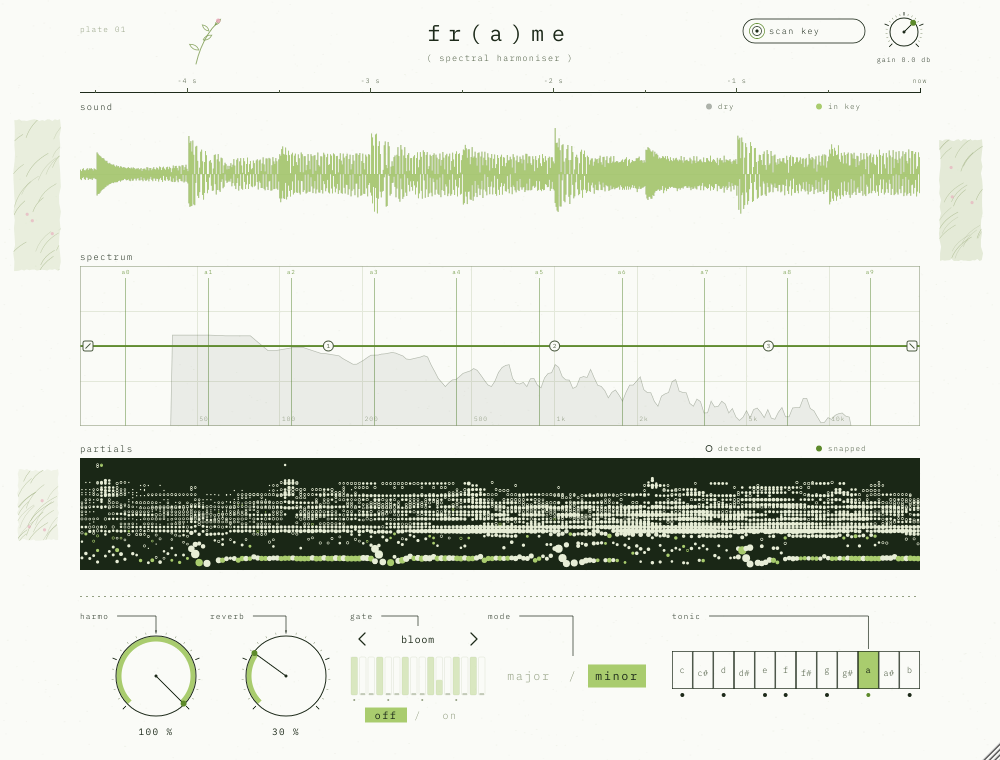
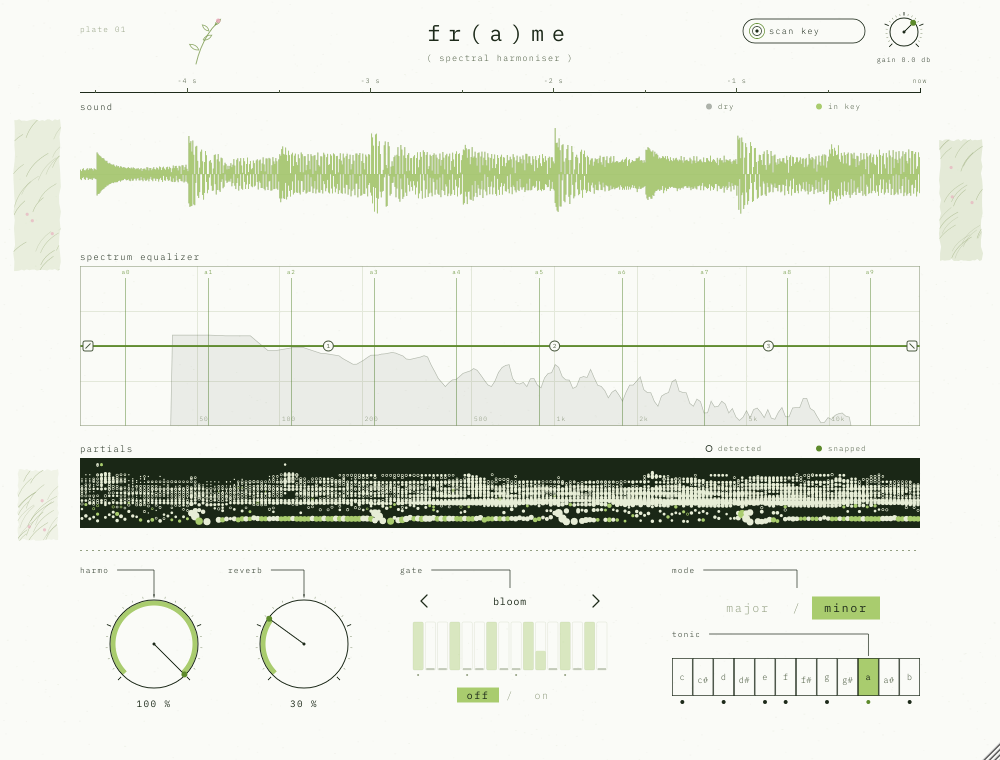
3.4.0 : contrôles réorganisés et aérés (partials plus basse), spectrum equalizer
Claude-Session: https://claude.ai/code/session_01BthVUY6Bak1JTWBvTbc3au

diff --git a/Source/PluginEditor.cpp b/Source/PluginEditor.cpp
@@ -146,7 +146,7 @@ void FrameCanvas::paint (juce::Graphics& g)
         drawMonoText (g, text, { band.getX(), band.getY() - 16.0f, 300.0f, 13.0f }, 11.5f, J::centredLeft, Palette::ink);
     };
     bandLabel ("sound",    soundArea);
-    bandLabel ("spectrum", spectrumArea);
+    bandLabel ("spectrum equalizer", spectrumArea);
     bandLabel ("partials", partialArea);
 
     // Petites légendes à droite des étiquettes (pastille + mot).
@@ -166,15 +166,15 @@ void FrameCanvas::paint (juce::Graphics& g)
     // ---- Zone des contrôles ---------------------------------------------------
     g.setColour (Palette::pencil);
     for (float x = left; x < right; x += 6.0f)                 // ligne pointillée de séparation
-        g.drawHorizontalLine (596, x, juce::jmin (x + 2.0f, right));
+        g.drawHorizontalLine ((int) separatorY, x, juce::jmin (x + 2.0f, right));
 
     const auto knobC = knobArea.toFloat().getCentre();
     const auto reverbC = reverbArea.toFloat().getCentre();
-    drawCallout (g, "harmo",  { left, 616.0f },   { knobC.x,   (float) knobArea.getY() + 2.0f }, true);
-    drawCallout (g, "reverb", { 210.0f, 616.0f }, { reverbC.x, (float) reverbArea.getY() + 2.0f }, true);
-    drawCallout (g, "gate",   { 350.0f, 616.0f }, { (float) gateArea.getCentreX(), (float) gateArea.getY() - 2.0f }, true);
-    drawCallout (g, "mode",   { 488.0f, 616.0f }, { (float) modeArea.getCentreX(), (float) modeArea.getY() - 2.0f }, true);
-    drawCallout (g, "tonic",  { 672.0f, 616.0f },
+    drawCallout (g, "harmo",  { left, calloutY },   { knobC.x,   (float) knobArea.getY() + 2.0f }, true);
+    drawCallout (g, "reverb", { 228.0f, calloutY }, { reverbC.x, (float) reverbArea.getY() + 2.0f }, true);
+    drawCallout (g, "gate",   { 400.0f, calloutY }, { (float) gateArea.getCentreX(), (float) gateArea.getY() - 2.0f }, true);
+    drawCallout (g, "mode",   { 672.0f, calloutY }, { (float) modeArea.getCentreX(), (float) modeArea.getY() - 2.0f }, true);
+    drawCallout (g, "tonic",  { 672.0f, (float) modeArea.getBottom() + 8.0f },
                  { (float) noteArea.getX() + noteArea.getWidth() * ((float) noteRow.getNote() + 0.5f) / 12.0f,
                    (float) noteArea.getY() - 2.0f }, true);
 

diff --git a/Source/PluginEditor.h b/Source/PluginEditor.h
@@ -62,16 +62,18 @@ private:
     // par-dessus), le spectrum (EQ) et la partition des partiels.
     const juce::Rectangle<float> soundArea    { 80.0f, 116.0f, 840.0f, 116.0f };
     const juce::Rectangle<float> spectrumArea { 80.0f, 266.0f, 840.0f, 160.0f };
-    const juce::Rectangle<float> partialArea  { 80.0f, 458.0f, 840.0f, 112.0f };
+    const juce::Rectangle<float> partialArea  { 80.0f, 458.0f, 840.0f,  70.0f };   // 3.4 : plus basse, les contrôles montent
     // En haut à droite : scan key, puis le petit bouton gain.
     const juce::Rectangle<int>   scanArea     { 742, 18, 124, 26 };
     const juce::Rectangle<int>   gainArea     { 884, 12, 40, 40 };
-    // Rangée du bas : deux gros boutons (harmo, reverb), gate, mode, tonique.
-    const juce::Rectangle<int>   knobArea     { 110, 630, 92, 92 };
-    const juce::Rectangle<int>   reverbArea   { 240, 630, 92, 92 };
-    const juce::Rectangle<int>   gateArea     { 350, 628, 136, 100 };
-    const juce::Rectangle<int>   modeArea     { 498, 658, 150, 36 };
-    const juce::Rectangle<int>   noteArea     { 672, 651, 248, 50 };
+    // Contrôles (3.4) : trois groupes aérés — son (harmo, reverb), gate, tonalité
+    // (mode au-dessus de la tonique).
+    static constexpr float separatorY = 550.0f, calloutY = 570.0f;
+    const juce::Rectangle<int>   knobArea     { 104, 594, 100, 100 };
+    const juce::Rectangle<int>   reverbArea   { 254, 594, 100, 100 };
+    const juce::Rectangle<int>   gateArea     { 412, 590, 196, 118 };
+    const juce::Rectangle<int>   modeArea     { 712, 590, 170, 36 };
+    const juce::Rectangle<int>   noteArea     { 672, 658, 248, 50 };
 
     JUCE_DECLARE_NON_COPYABLE_WITH_LEAK_DETECTOR (FrameCanvas)
 };

diff --git a/Source/Controls.cpp b/Source/Controls.cpp
@@ -91,11 +91,11 @@ GatePanel::GatePanel (juce::RangedAudioParameter& onParam, juce::RangedAudioPara
 
 juce::Rectangle<float> GatePanel::leftArrow() const noexcept  { return { 0.0f, 0.0f, 24.0f, 22.0f }; }
 juce::Rectangle<float> GatePanel::rightArrow() const noexcept { return { (float) getWidth() - 24.0f, 0.0f, 24.0f, 22.0f }; }
-juce::Rectangle<float> GatePanel::stepsArea() const noexcept  { return { 0.0f, 29.0f, (float) getWidth(), 38.0f }; }
+juce::Rectangle<float> GatePanel::stepsArea() const noexcept  { return { 0.0f, 32.0f, (float) getWidth(), (float) getHeight() - 32.0f - 38.0f }; }
 juce::Rectangle<float> GatePanel::toggleOption (int index) const noexcept
 {
     const float w = 46.0f, slash = 18.0f, x0 = ((float) getWidth() - (2.0f * w + slash)) * 0.5f;
-    return { x0 + (float) index * (w + slash), 76.0f, w, 22.0f };
+    return { x0 + (float) index * (w + slash), (float) getHeight() - 24.0f, w, 22.0f };
 }
 
 void GatePanel::setStep (int s)

diff --git a/README.md b/README.md
@@ -8,7 +8,7 @@ Contrôles : **scan** (page d'accueil : on joue la mélodie, fr(a)me trouve la t
 règle tonique + mode), **harmo** (0–100 %, recalage des notes tenues + peigne + harmoniques),
 **reverb** (0–100 %, réverbe ambient granulaire dans la tonalité), **gate** (trance gate
 16 pas calé sur le tempo du DAW, 15 motifs, éteint au lancement), **mode** (major / minor), **tonic** (12 notes), **EQ façon Pro-Q**
-dans la partie spectrum (coupe basse, 3 cloches, coupe haute) et **gain** de sortie
+dans la partie spectrum equalizer (coupe basse, 3 cloches, coupe haute) et **gain** de sortie
 (−24 … +12 dB, petit bouton en haut à droite, à côté de **scan key**). Thème unique : garden.
 Tous automatisables et sauvegardés avec le projet.
 
@@ -386,7 +386,7 @@ Une planche d'analyse de 1000 × 760 unités, dessinée en vectoriel et mise à 
 (720 px de large par défaut ; redimensionnez par le coin inférieur droit, de 520 à 1500 px).
 
 - **sound** : le son brut (gris) et le son dans la tonalité (vert) superposés ;
-- **spectrum** : EQ façon Pro-Q (fréquences de gauche à droite) sur l'analyseur du son de
+- **spectrum equalizer** : EQ façon Pro-Q (fréquences de gauche à droite) sur l'analyseur du son de
   sortie, avec la tonique de chaque octave ;
 - **partials** : partition graphique noire, un rond par pic détecté (taille = amplitude),
   vert si le pic a été recalé ;
@@ -394,6 +394,10 @@ Une planche d'analyse de 1000 × 760 unités, dessinée en vectoriel et mise à 
   (‹ nom du motif ›, les 16 pas avec le pas joué en vert foncé, off / on) ; **mode** (clic sur le mot) ; **tonic** (clic ou glisser le long de la rangée ; un point
   marque chaque note de la gamme) ;
 - en haut à droite : **scan key** (rouvre la page de scan) et **gain** (double-clic = 0 dB).
+
+3.4 : contrôles réorganisés et aérés — bande partials plus basse, contrôles remontés dans
+la place libérée, trois groupes espacés : son (harmo, reverb), gate, tonalité (mode
+au-dessus de la tonique) ; « spectrum » devient « spectrum equalizer ».
 
 3.2 : planche épurée — une seule bande de son au lieu de deux, plus d'échelles ni de
 rappels sur les bandes, scan key monté à côté du gain.
